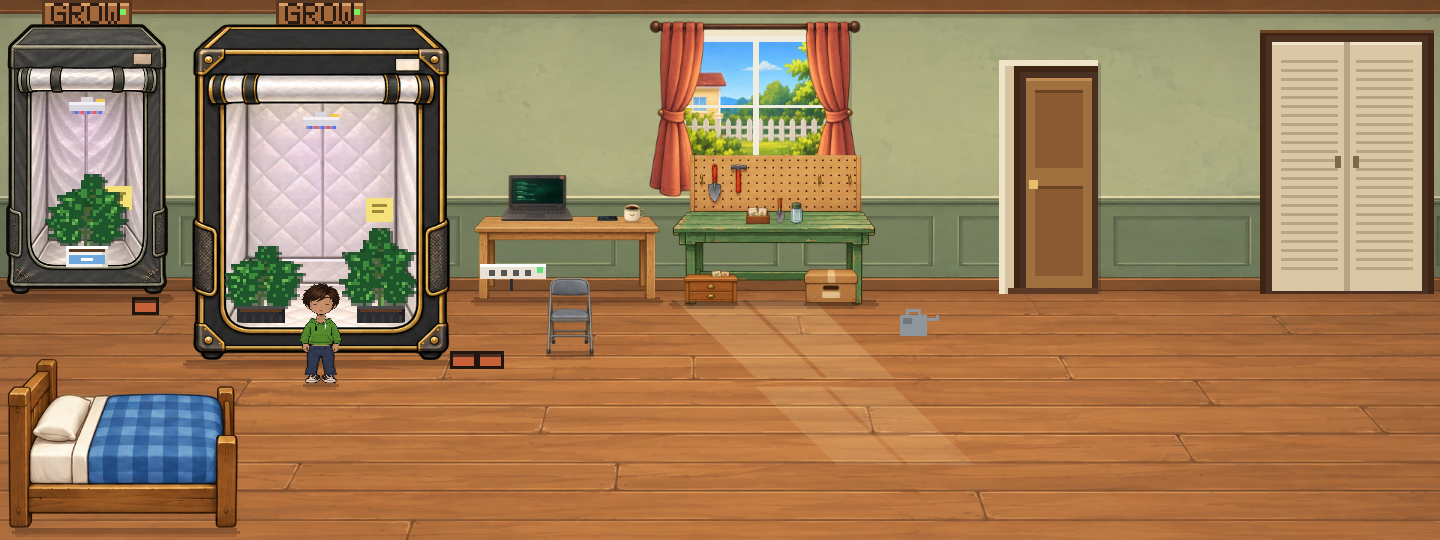
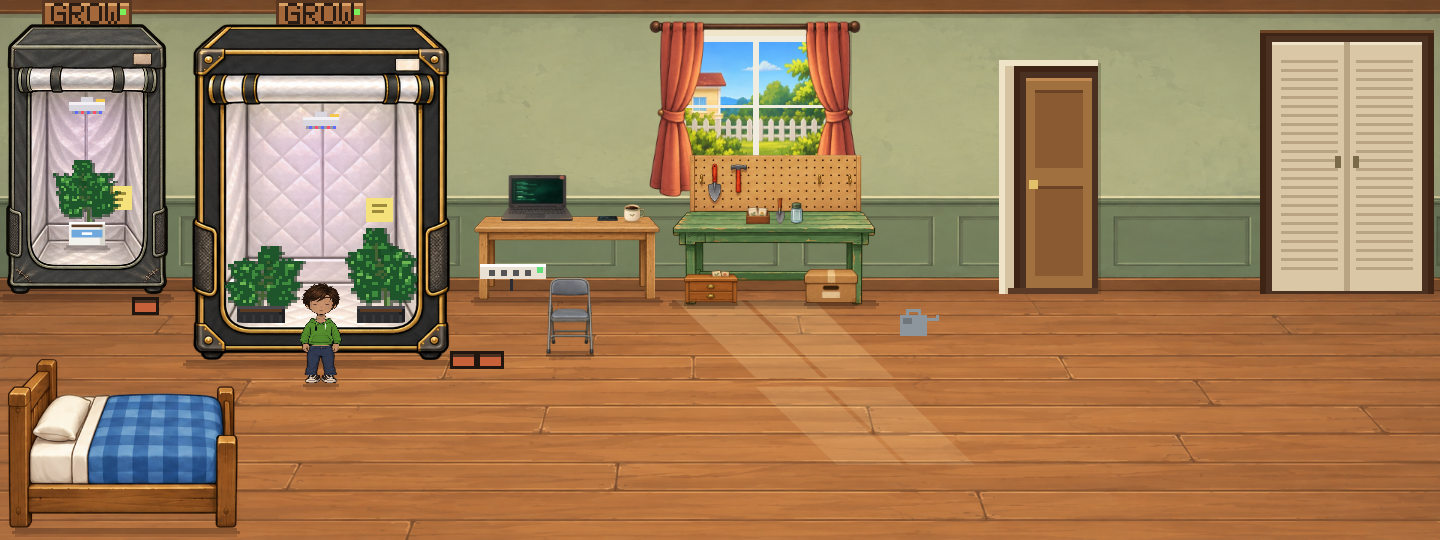
Recess starter plant and pot onto the interior floor

Changed region(s): [[0.1562, 0.4148, 0.3125, 0.563], [0.0312, 0.2963, 0.0938, 0.5037]]

diff --git a/review/tents-2x2/STATUS.md b/review/tents-2x2/STATUS.md
@@ -15,3 +15,7 @@ The narrowed starter now uses its own opening proportions (.15–.85 of the widt
 The bedroom watering can and its purchased drip-reservoir replacement move from x62 to x300 at the same floor depth, to the right of the seedling desk. Their shared click target, placement footprint and access reservation move with them. All four watering tiers are checked. watering-placement.png shows the ordinary can and upgraded tank separately; width-comparison.png shows the corrected tent contents and lighting.
 
 The preview checks now also cover both starter shells open/closed with marker content hidden by the roof, sides and bottom fabric. No production files changed; these revisions are saved locally pending sample approval.
+
+### Starter depth correction after further review
+
+The previous aperture correction still left the starter pot at the opening's front lip. The follow-up seats its soil anchor at y74 rather than y82 and renders the plant/pot group at .86 scale, leaving roughly seven logical pixels of liner in front of the pot base. Visual hit rectangles use the same transform while the walk destination remains outside the tent. Both starter shells and all three pot tiers now have a specific floor-depth check, in addition to fabric occlusion checks. The updated width-comparison.png shows the actual room render with this placement.
